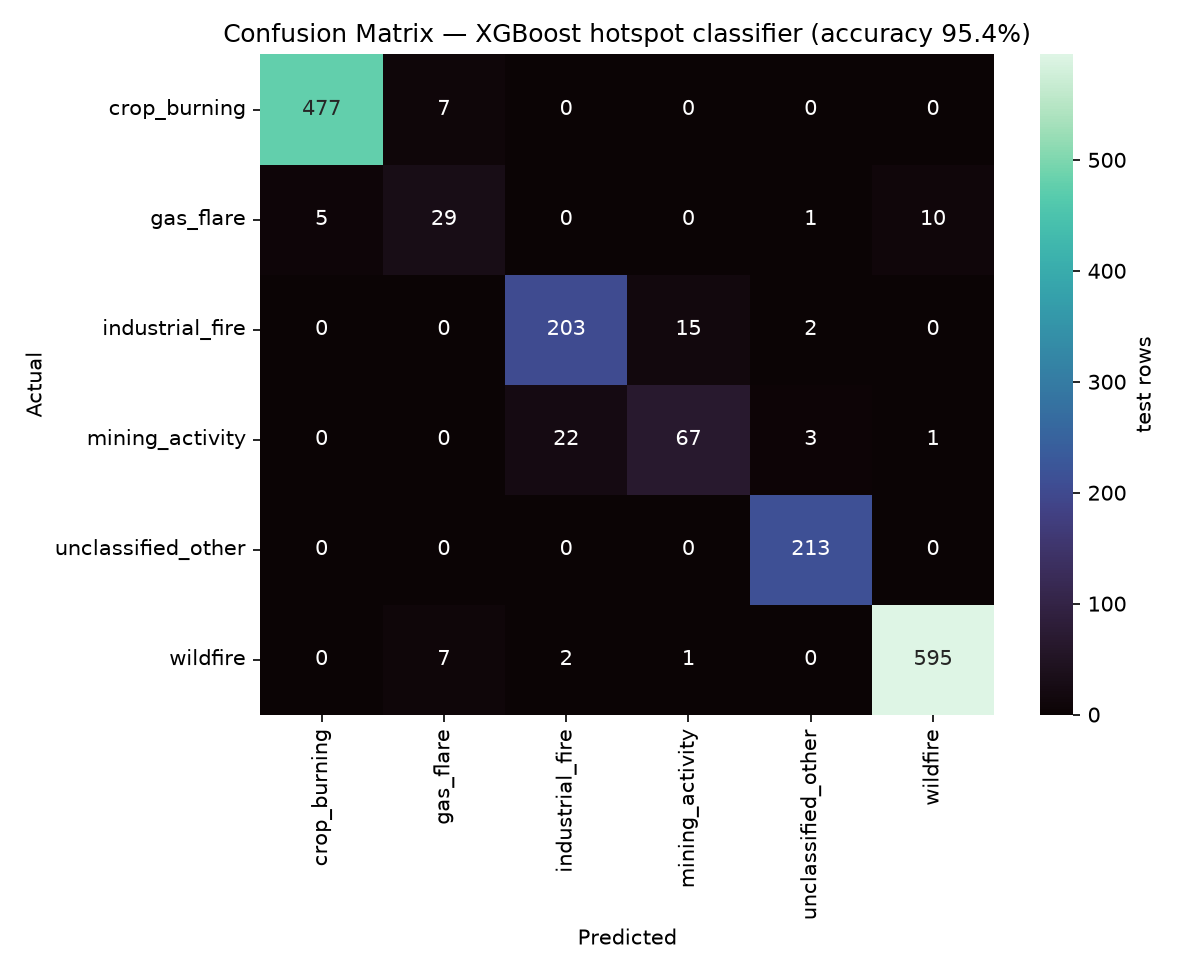
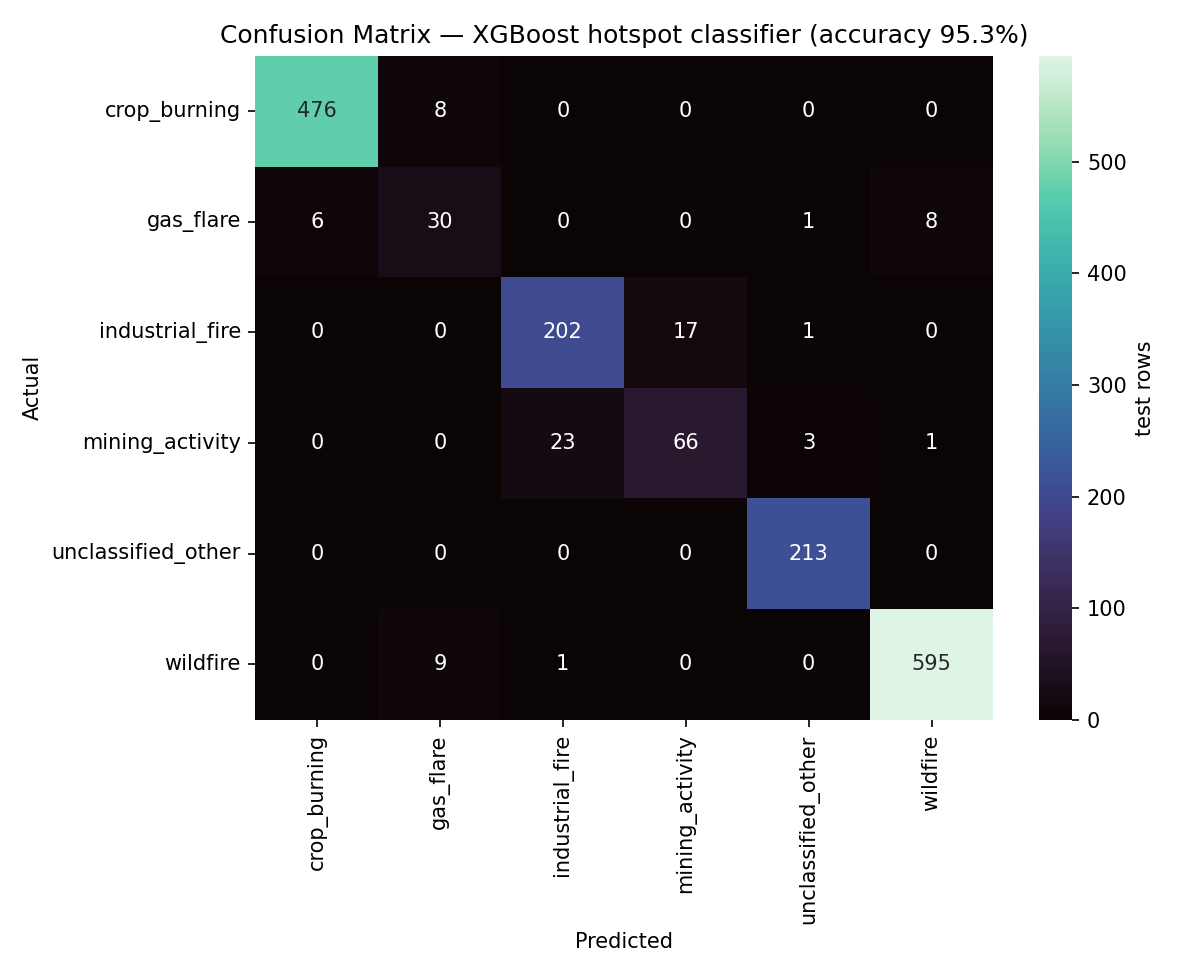
Ensure UTF-8 encoding in validate_model.py report generation

diff --git a/backend/validate_model.py b/backend/validate_model.py
@@ -211,7 +211,7 @@ def main():
         "",
         f"*Generated {time.strftime('%Y-%m-%d %H:%M UTC', time.gmtime())} · run `python validate_model.py` to regenerate*",
     ]
-    (REPORTS / "MODEL_VALIDATION.md").write_text("\n".join(md))
+    (REPORTS / "MODEL_VALIDATION.md").write_text("\n".join(md), encoding="utf-8")
 
     payload = {
         "generated_at": time.strftime("%Y-%m-%dT%H:%M:%SZ", time.gmtime()),
@@ -237,7 +237,7 @@ def main():
         "saved_model_accuracy": round(saved_acc, 4) if saved_acc is not None else None,
         "train_seconds": round(time.time() - t0, 1),
     }
-    (REPORTS / "validation_report.json").write_text(json.dumps(payload, indent=2))
+    (REPORTS / "validation_report.json").write_text(json.dumps(payload, indent=2), encoding="utf-8")
     print(f"Wrote {REPORTS/'validation_report.json'}, MODEL_VALIDATION.md, 2 charts "
           f"({payload['train_seconds']}s)")
 

diff --git a/backend/reports/MODEL_VALIDATION.md b/backend/reports/MODEL_VALIDATION.md
@@ -5,10 +5,10 @@
 
 | Metric | Score |
 |---|---|
-| **Accuracy** | **95.4%** |
+| **Accuracy** | **95.3%** |
 | Precision (weighted) | 95.3% |
-| Recall (weighted) | 95.4% |
-| F1 (weighted) | 95.4% |
+| Recall (weighted) | 95.3% |
+| F1 (weighted) | 95.3% |
 
 Deployed `model.pkl` reproduces this: ✅ yes (accuracy 95.4%).
 
@@ -16,16 +16,16 @@ Deployed `model.pkl` reproduces this: ✅ yes (accuracy 95.4%).
 
 | Class | Precision | Recall | F1 | Test rows |
 |---|---|---|---|---|
-| crop_burning | 99.0% | 98.6% | 98.8% | 484 |
-| gas_flare | 67.4% | 64.4% | 65.9% | 45 |
-| industrial_fire | 89.4% | 92.3% | 90.8% | 220 |
-| mining_activity | 80.7% | 72.0% | 76.1% | 93 |
-| unclassified_other | 97.3% | 100.0% | 98.6% | 213 |
-| wildfire | 98.2% | 98.3% | 98.3% | 605 |
+| crop_burning | 98.8% | 98.3% | 98.6% | 484 |
+| gas_flare | 63.8% | 66.7% | 65.2% | 45 |
+| industrial_fire | 89.4% | 91.8% | 90.6% | 220 |
+| mining_activity | 79.5% | 71.0% | 75.0% | 93 |
+| unclassified_other | 97.7% | 100.0% | 98.8% | 213 |
+| wildfire | 98.5% | 98.3% | 98.4% | 605 |
 
 ## What the model relies on
 
-Top features: **landcover_class** (50.3%), **daynight** (21.9%), **distance_to_facility_m** (15.2%).
+Top features: **landcover_class** (51.7%), **daynight** (20.0%), **distance_to_facility_m** (15.9%).
 
 ![Confusion matrix](confusion_matrix.png)
 
@@ -39,4 +39,4 @@ Top features: **landcover_class** (50.3%), **daynight** (21.9%), **distance_to_f
   accuracy on a brand-new region may be somewhat lower.
 - Landcover coverage is partial for live data (see enrichment notes).
 
-*Generated 2026-09-07 13:40 UTC · run `python validate_model.py` to regenerate*
+*Generated 2026-09-26 10:33 UTC · run `python validate_model.py` to regenerate*
